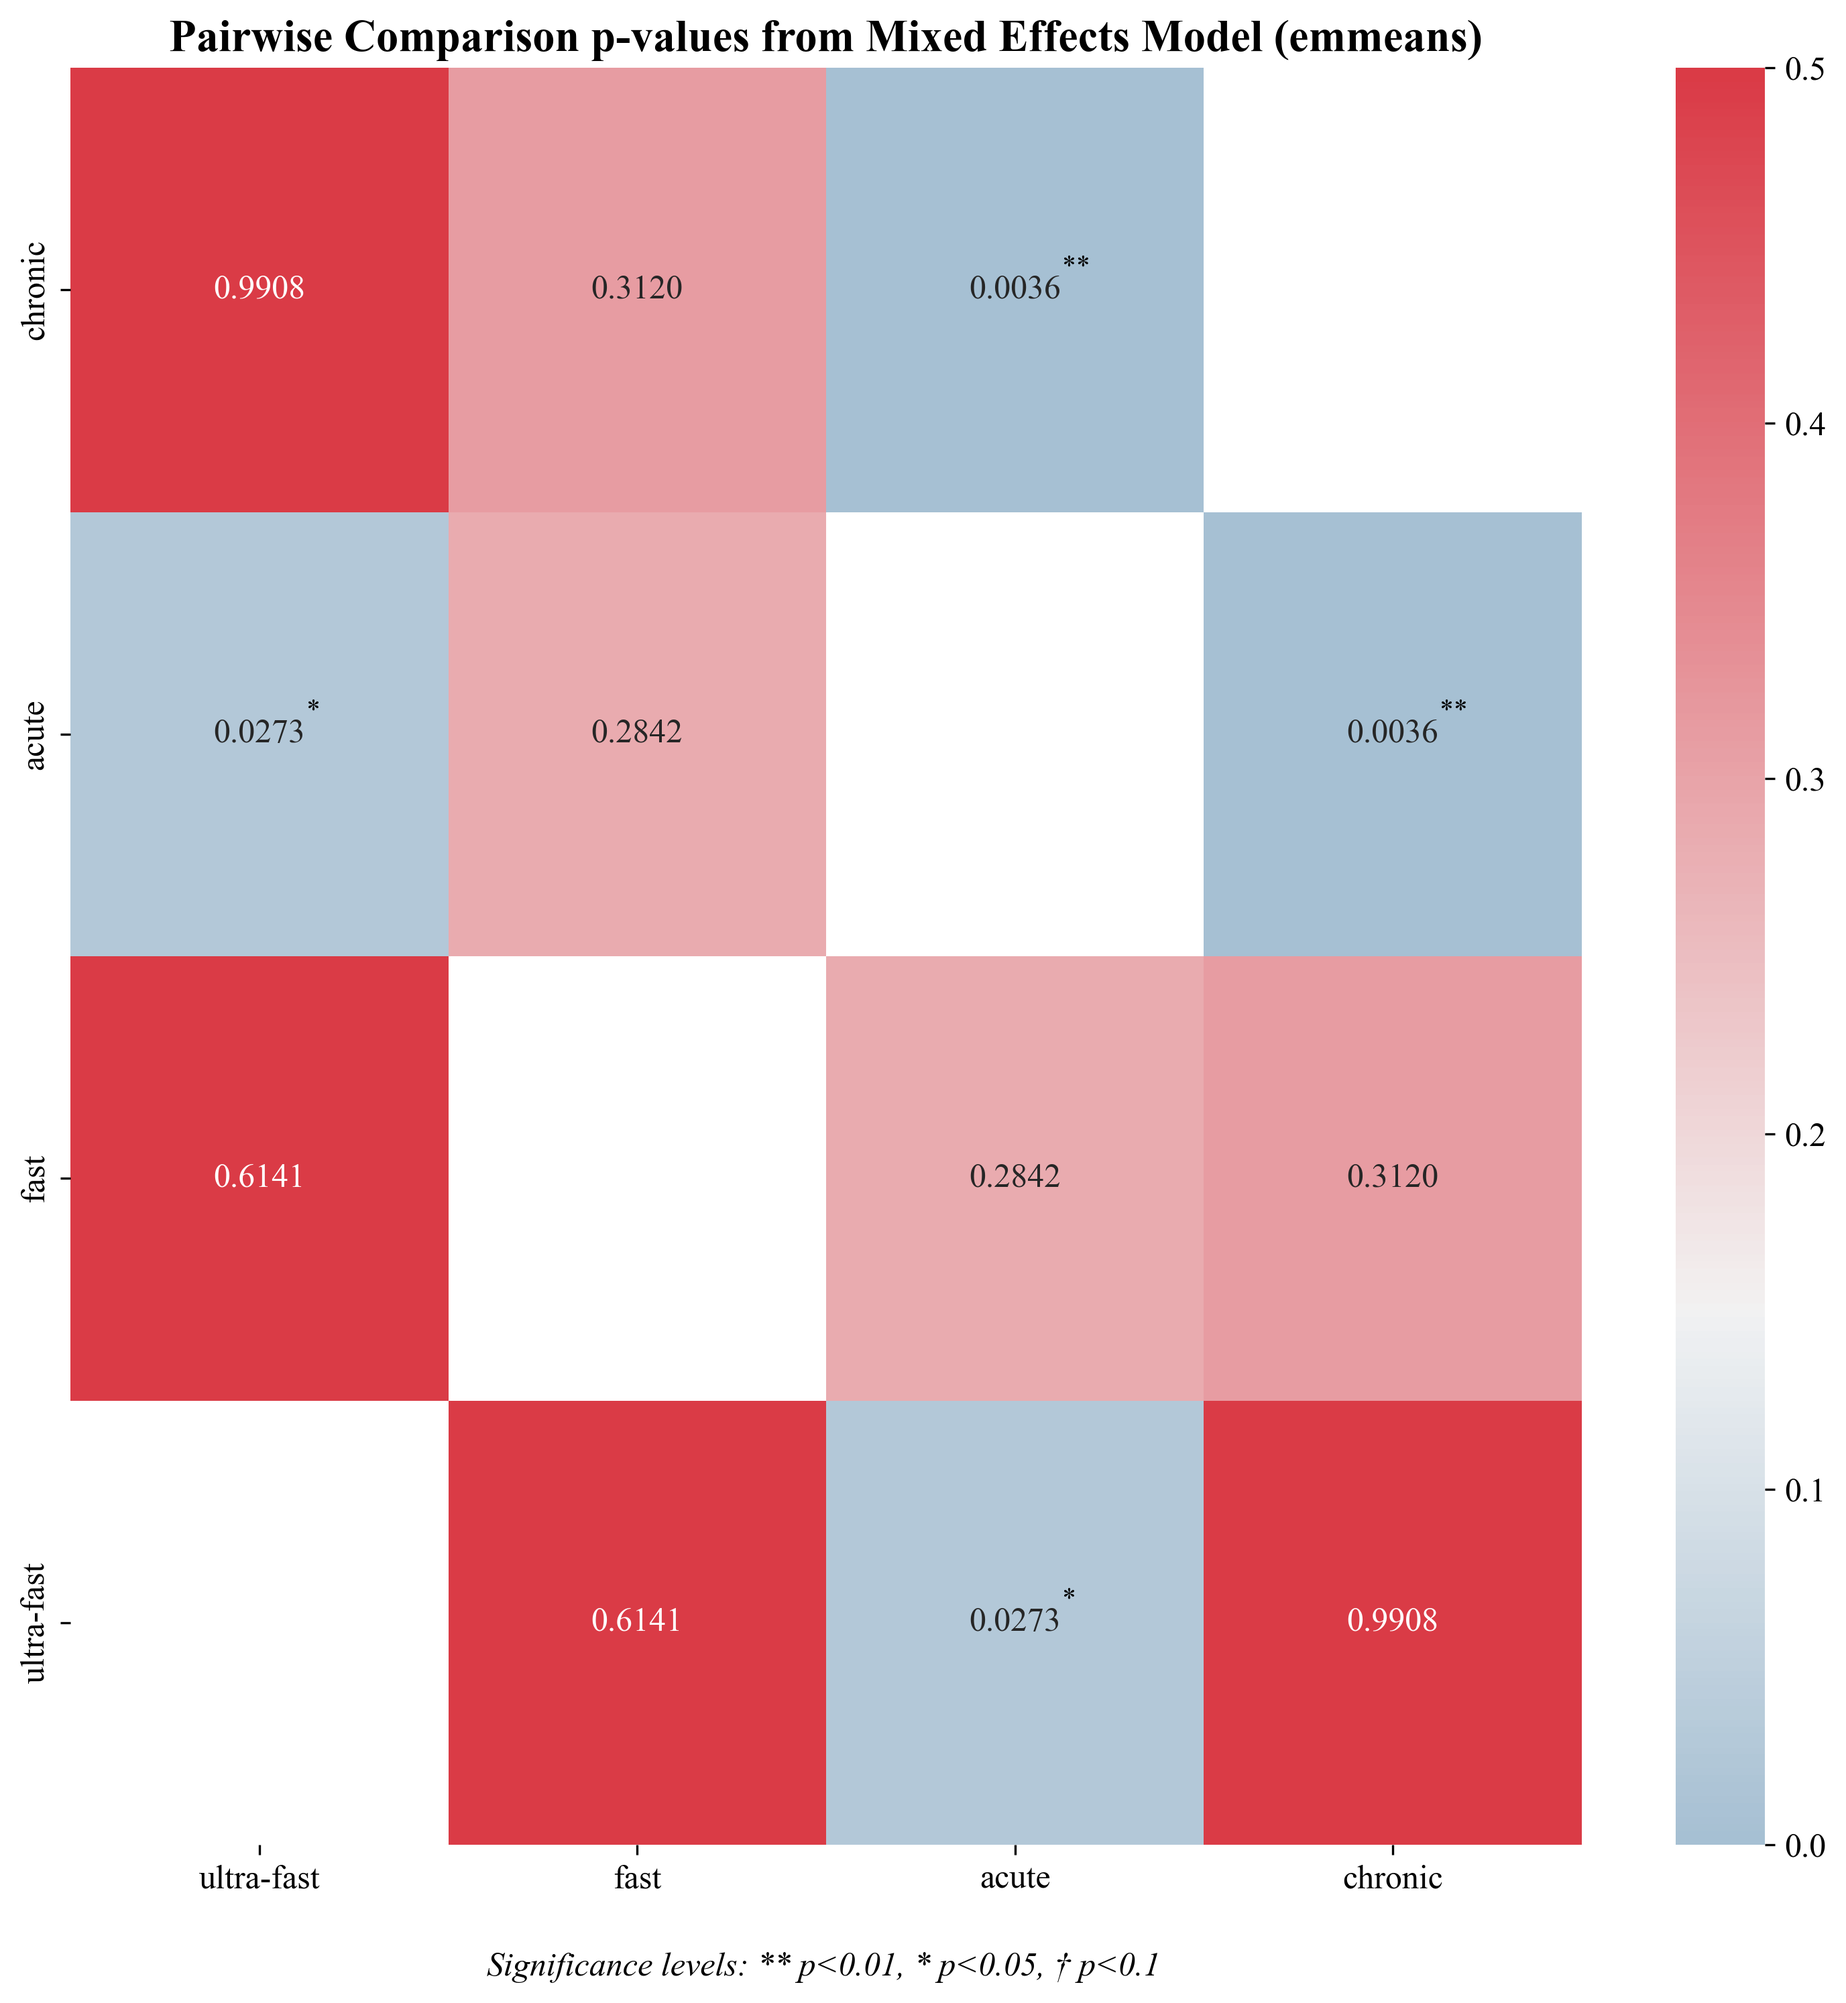
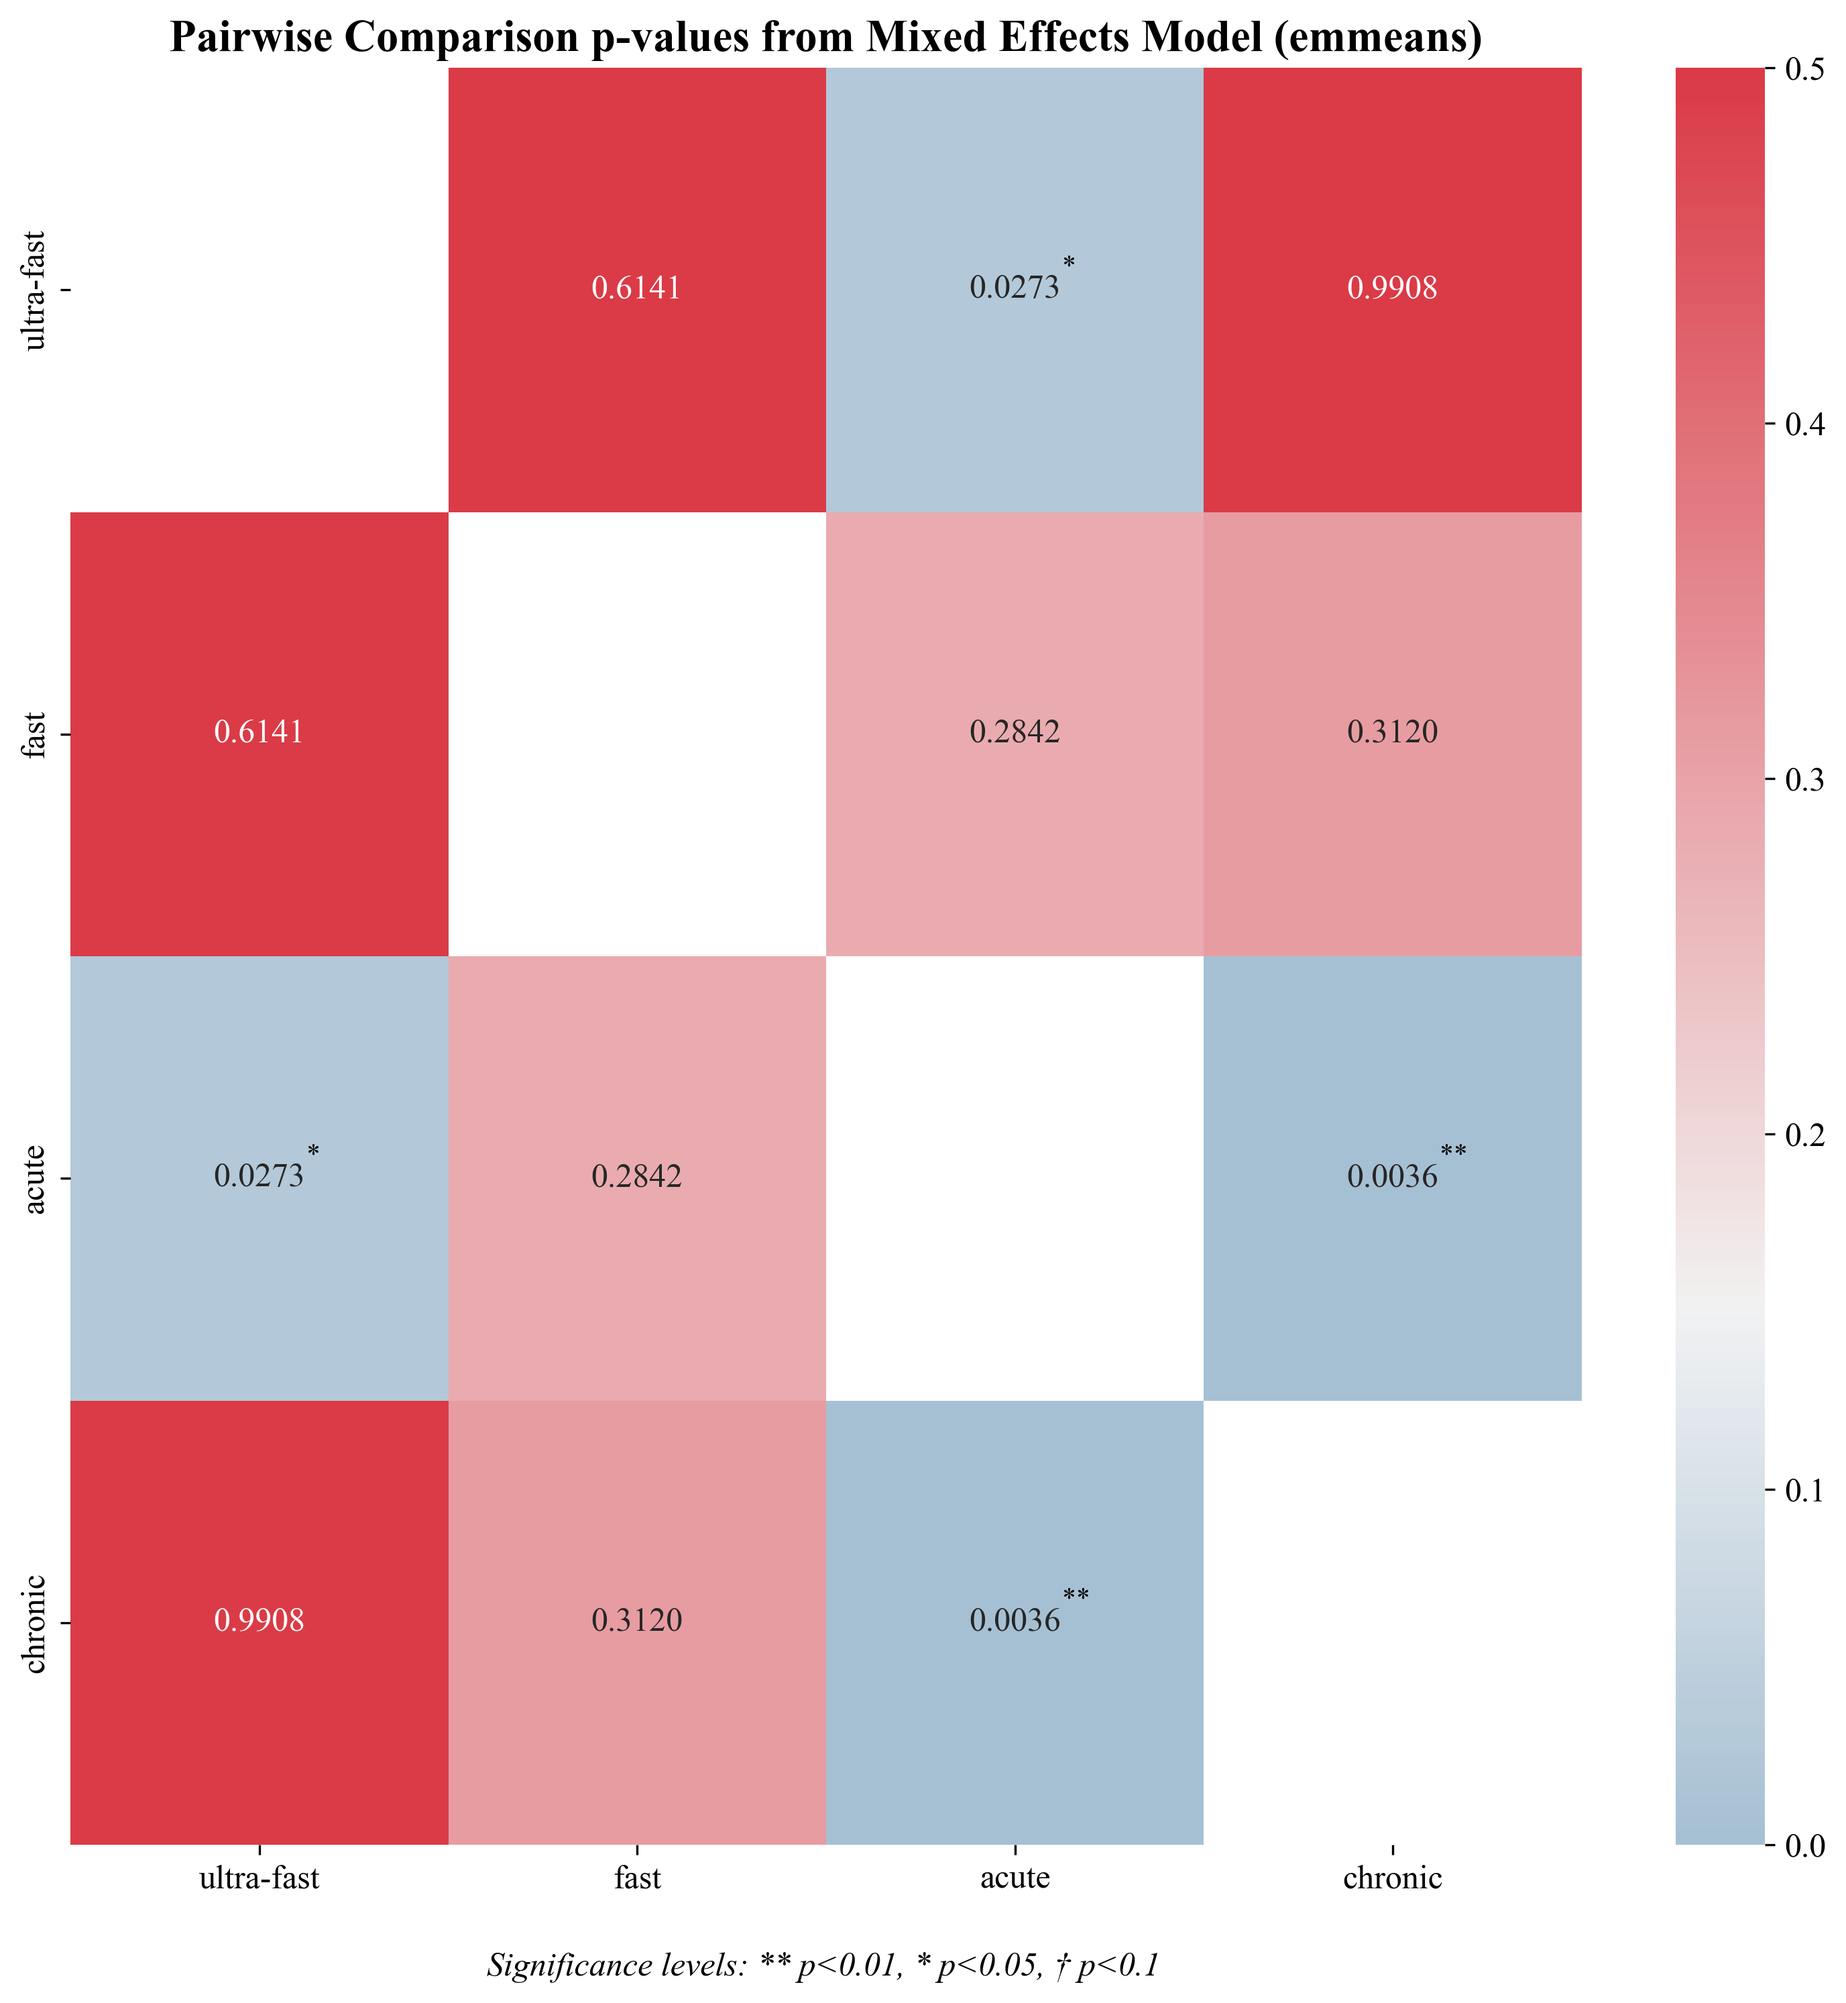
effective comparison to data availibility matrix

diff --git a/Image_Processing_Scripts/stats_main.py b/Image_Processing_Scripts/stats_main.py
@@ -950,7 +950,7 @@ def emmeans_significance_matrix(py_pairs):
     
             
     # invert for better visualisation
-    sig_df = sig_df.iloc[::-1, :]
+    #sig_df = sig_df.iloc[::-1, :]
     print(sig_df)
     mask = np.isnan(sig_df.values)
 
@@ -973,7 +973,7 @@ def plot_emmeans_sig_mat(sig_df, mask):
         fmt='.4f',   # Format as floating point with 4 decimals
         linewidths=0,  # Remove lines between cells
         linecolor='none',  # Ensure no line color
-        yticklabels=ordered_timepoints[::-1]  # Reverse y-axis labels
+        yticklabels=ordered_timepoints  # Reverse y-axis labels
     )
 
     # Add significance markers
@@ -1521,8 +1521,8 @@ if __name__ == '__main__':
     #data_availability_matrix(binned_df_pivot, order, filename='data_availability_matrix_binned.png')
 
     # Plot the significance matrix
-    #sig_df, mask = emmeans_significance_matrix(py_pairs)
-    #plot_emmeans_sig_mat(sig_df, mask)  
+    sig_df, mask = emmeans_significance_matrix(py_pairs)
+    plot_emmeans_sig_mat(sig_df, mask)  
 
     #mixed_effect_boxplot(new_df, result, timepoints=['ultra-fast', 'fast', 'acute', '3mo', '6mo', '12mo', '24mo'], chronic_timepoints=['3mo', '6mo', '12mo', '24mo'])
    
